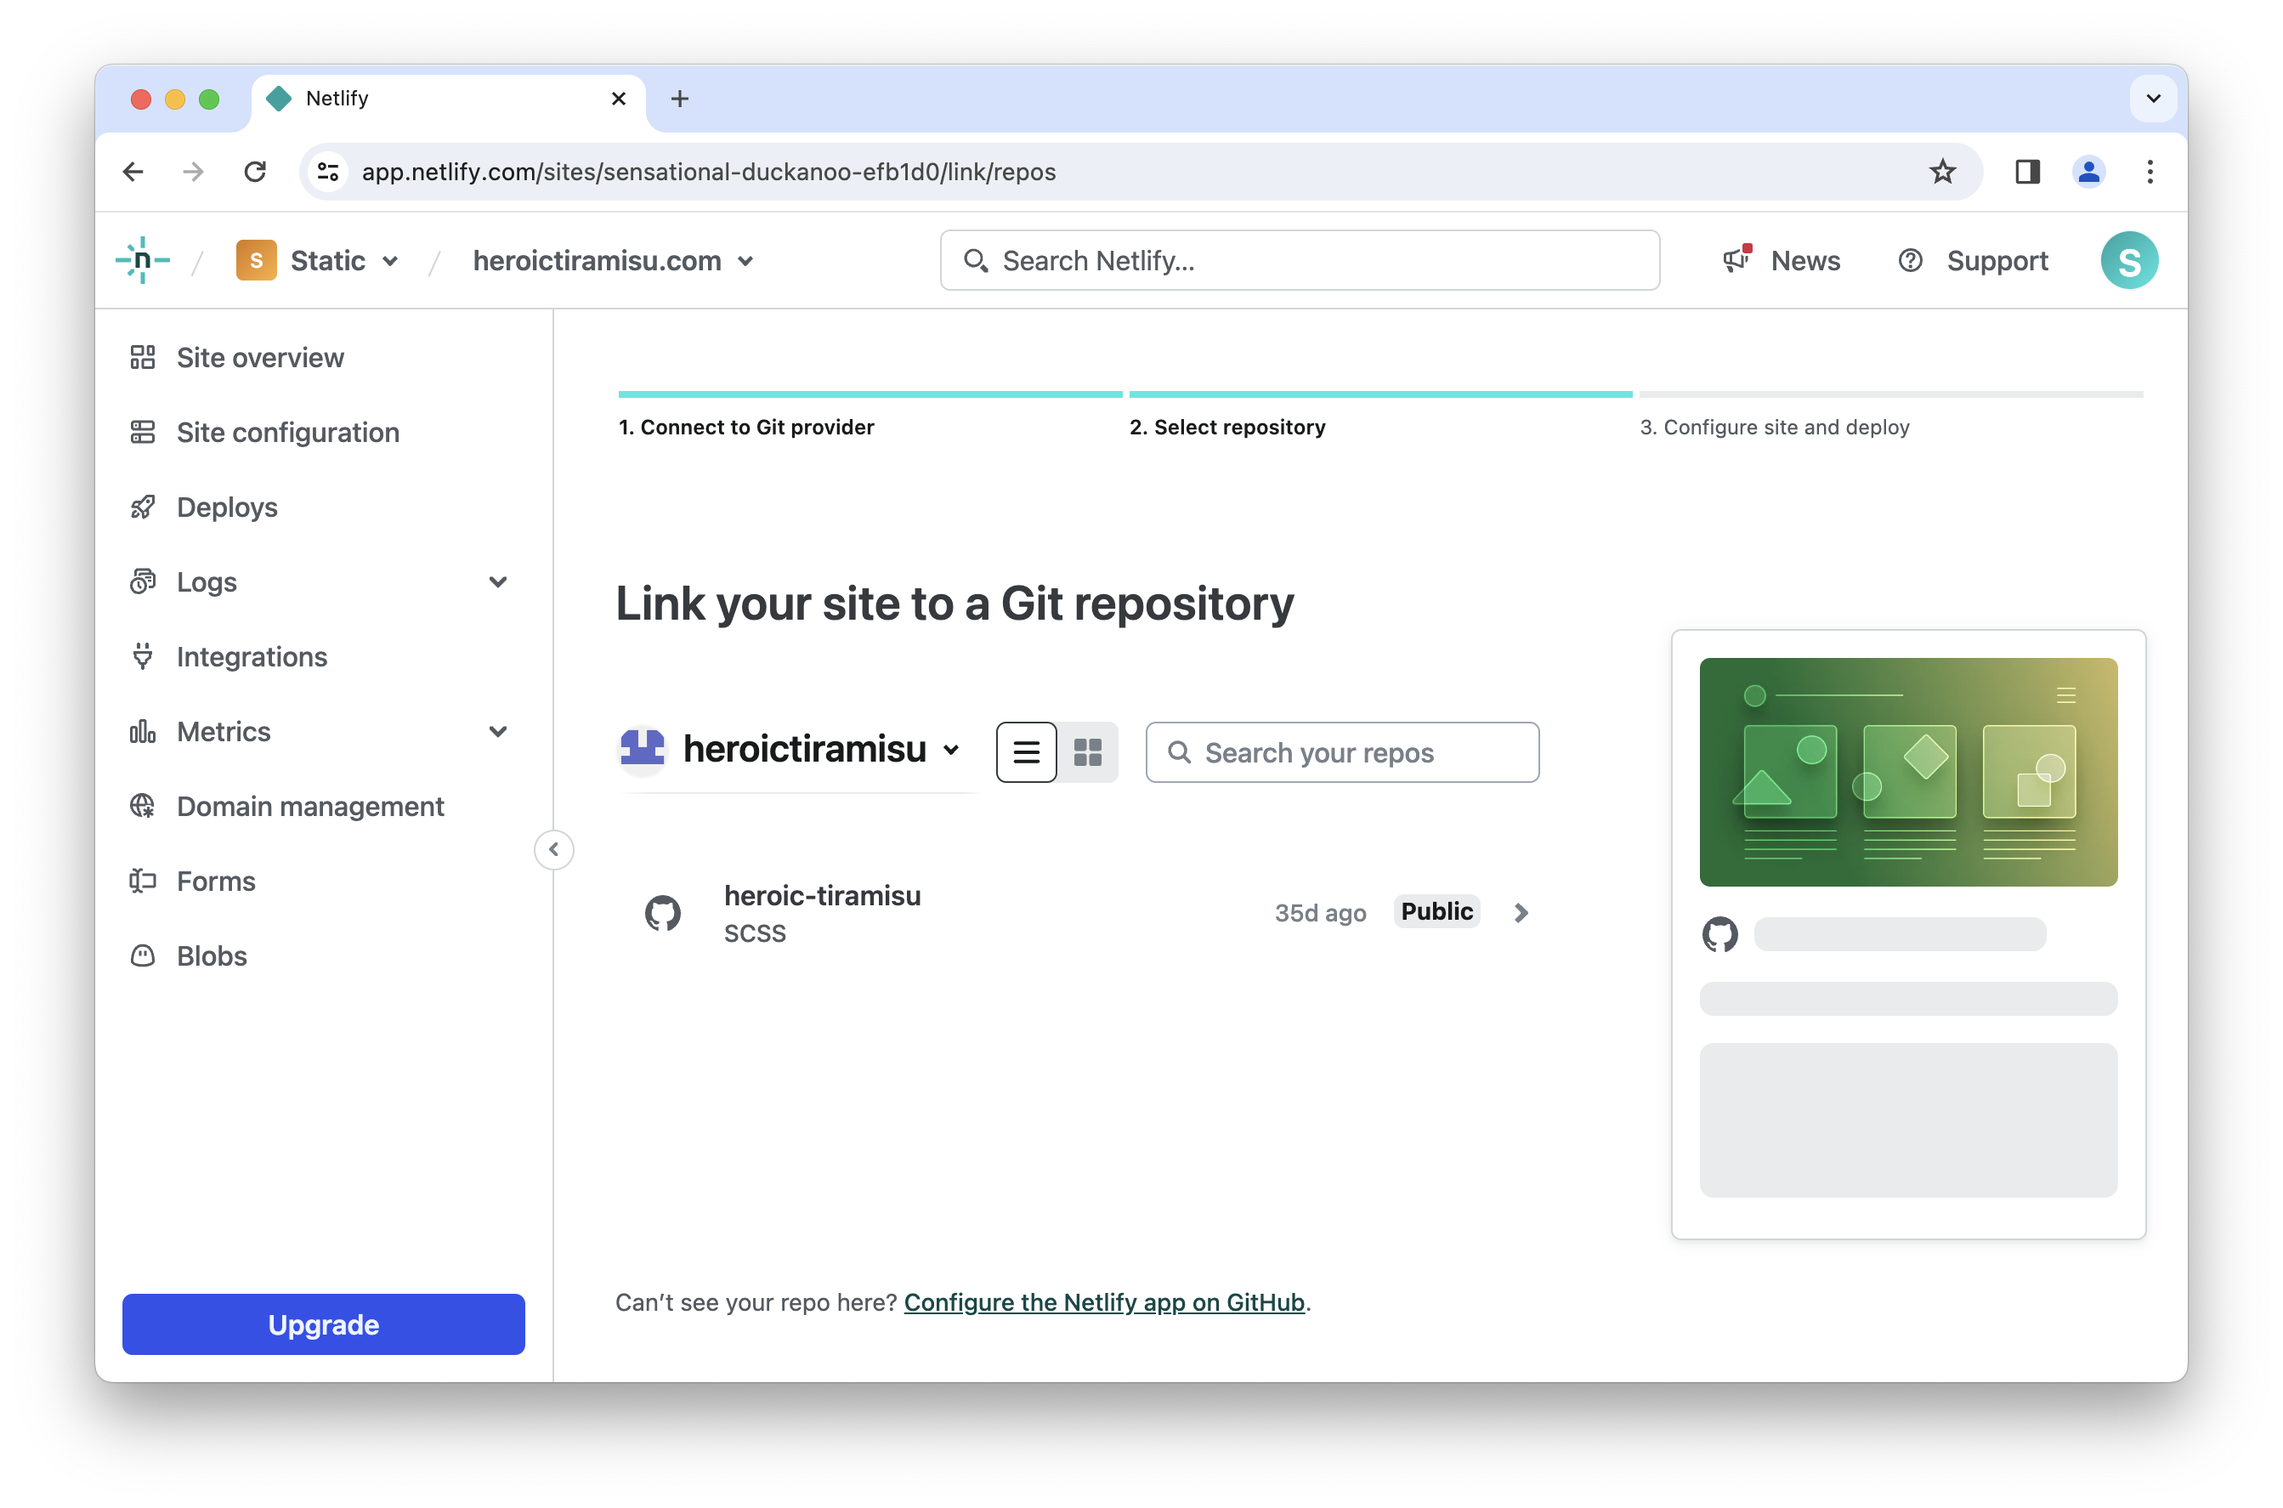
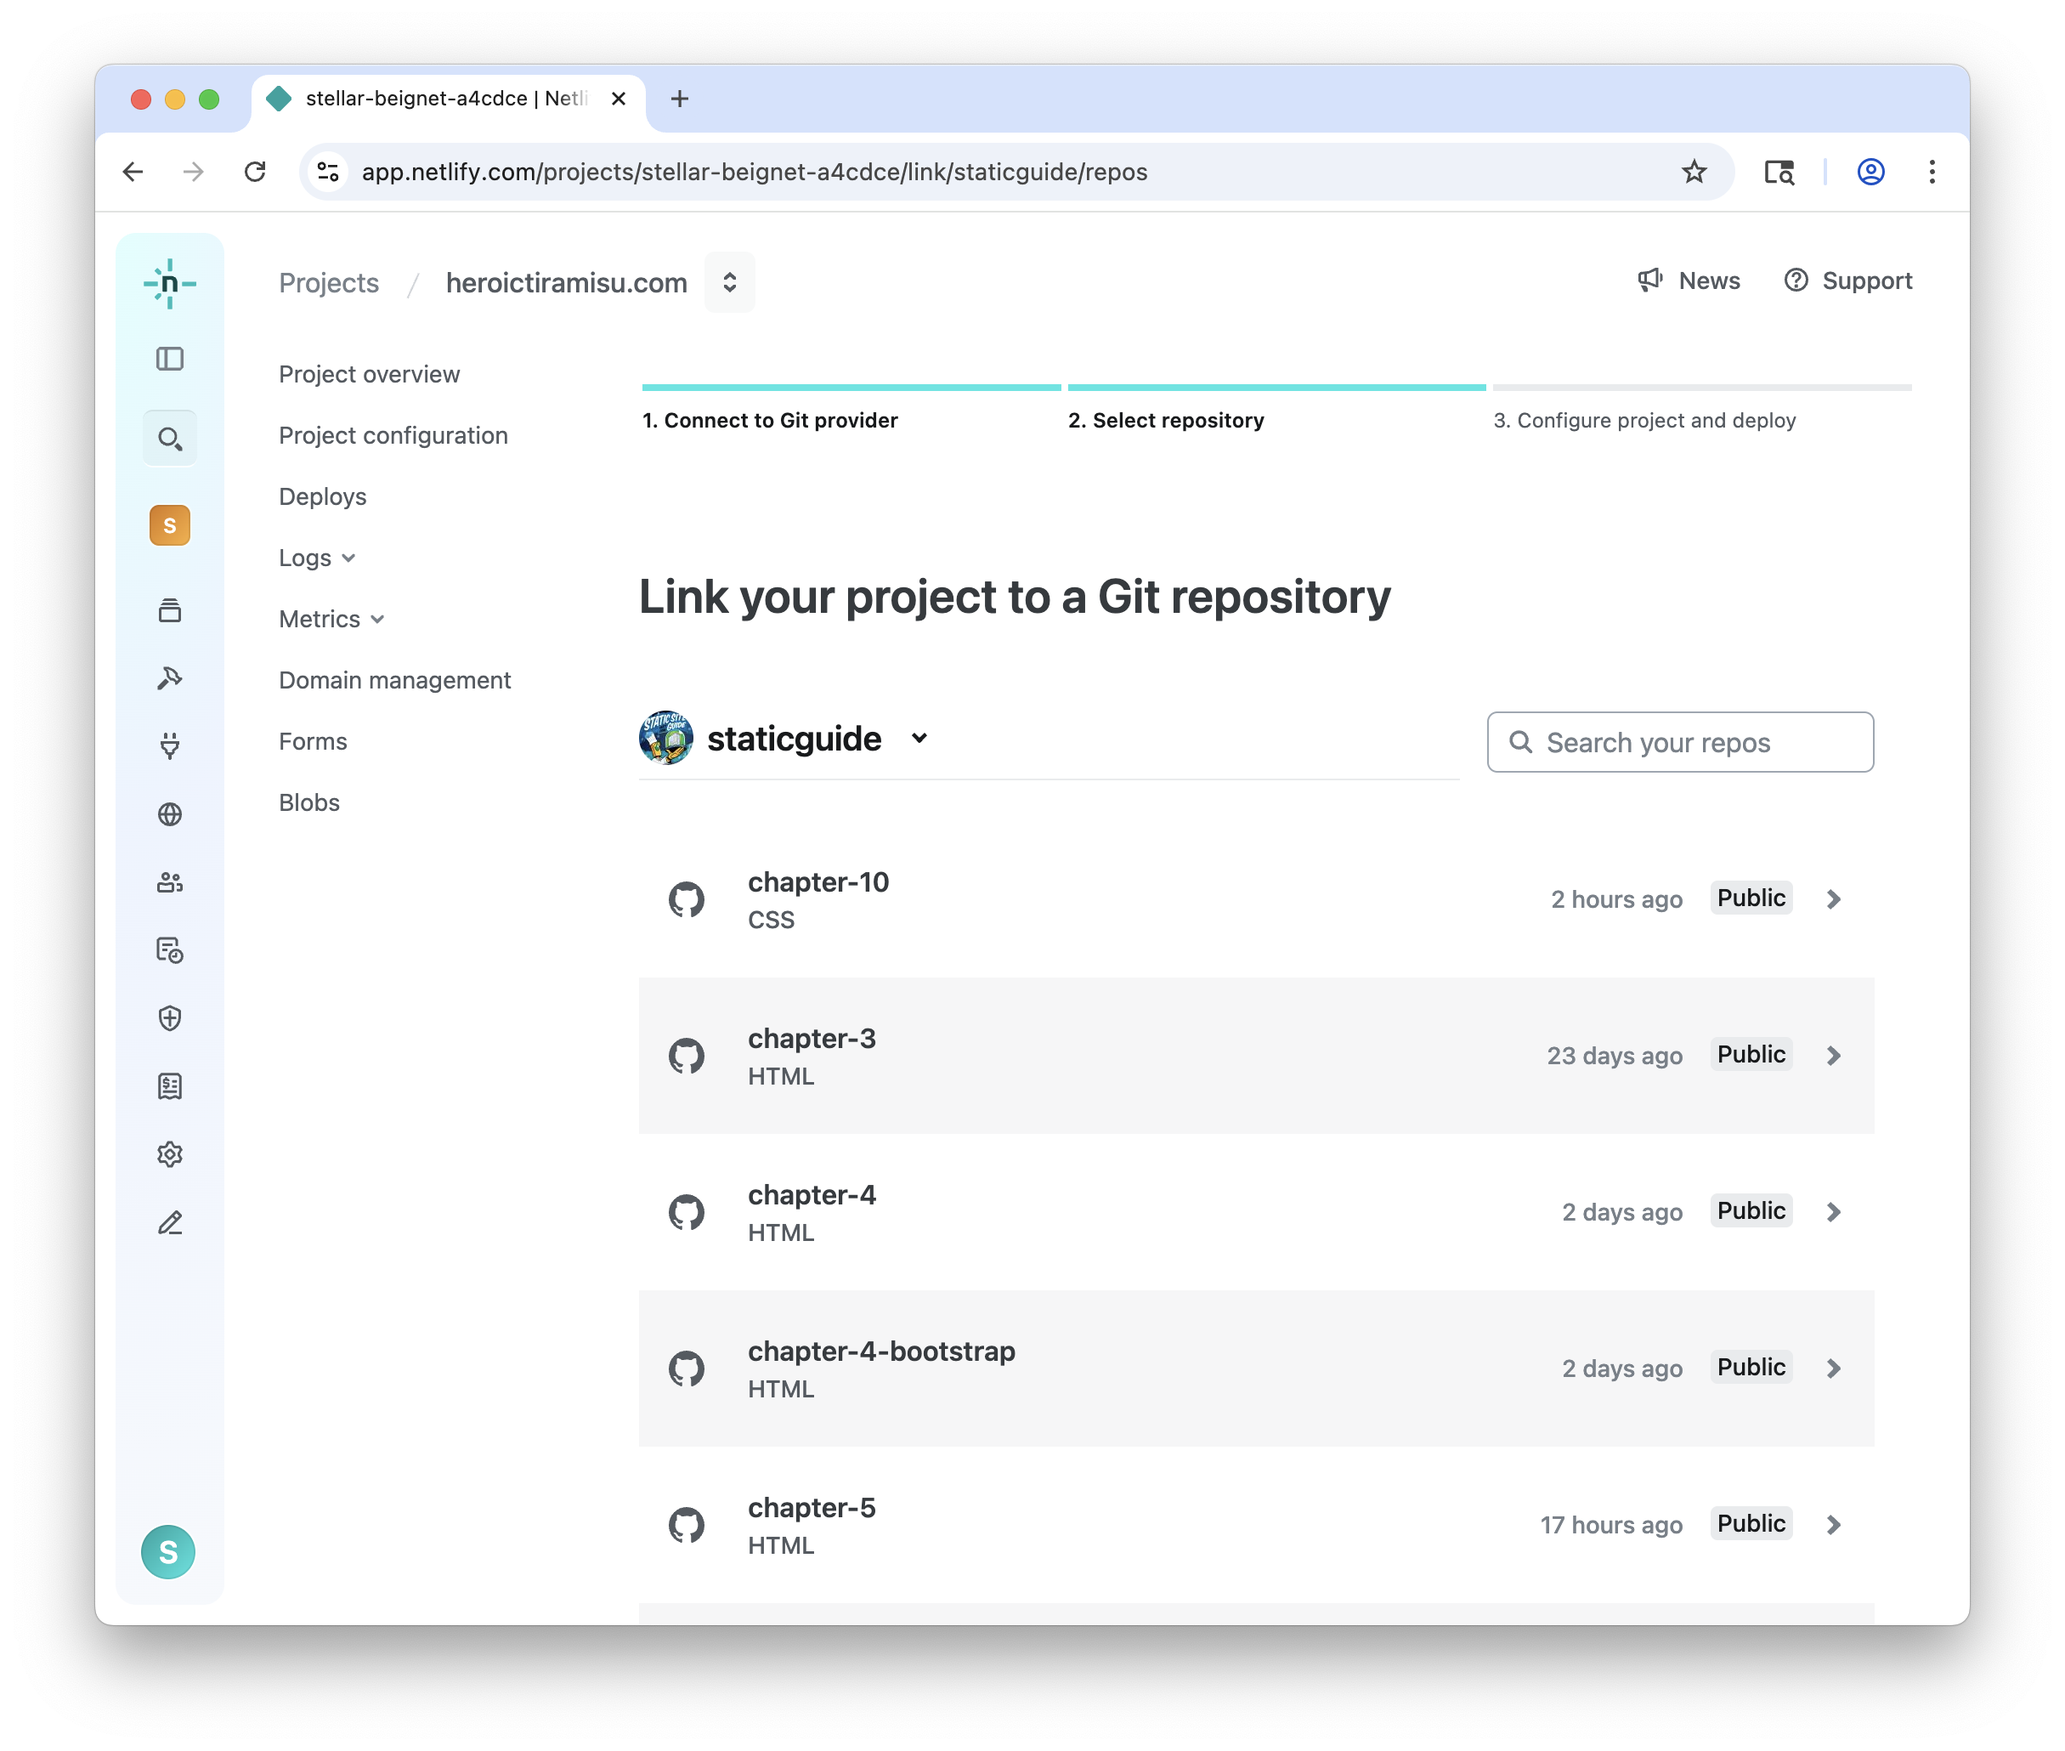
Update screenshots

diff --git a/content/chapter-10-setting-up-continuous-deployment.md b/content/chapter-10-setting-up-continuous-deployment.md
@@ -2,7 +2,7 @@
 title: "Setting up Continuous Deployment"
 chapter: "Chapter 10"
 description: "Chapter 10 of the Static Site Guide, a book that explains how to build a static website from scratch."
-date: 2025-06-07
+date: 2025-07-20
 previous: 
   name: "Chapter 9"
   link: "/chapter-9-implementing-version-control/"
@@ -25,9 +25,7 @@ The instructions in this chapter are written for Netlify, but you can apply the 
 
 ## Connecting Netlify to GitHub
 
-We'll enable the continuous deployment feature for our site in Netlify by linking our GitHub repository to our Netlify account. To do this, log in to Netlify, click **Sites**, and then select your website. From the sidebar, click **Site configuration**, and then click **Build & deploy**. 
-
-The continuous deployment settings are in the **Continuous deployment** section, as shown below. Click the **Link repository** button. 
+We'll enable the continuous deployment feature for our site in Netlify by linking our GitHub repository to our Netlify account. To do this, log in to Netlify and select your project. From the sidebar, click **Project configuration**, and then click **Continuous Deployment**. Click the **Link repository** button, as shown below. 
 
 ![Continuous deployment setting in Netlify](/images/figures/figure-68.png)
 
@@ -47,7 +45,7 @@ Back on the Netlify website, select your website's repository, as shown below.
 
 ![Selecting the GitHub repository in Netlify](/images/figures/figure-72.png)
 
-On the next page, you'll see settings related to how Netlify builds your website. You can leave these set to their default values. Netlify can automatically detect that you're building a Hugo website, and it will use the `hugo` command. After you've reviewed the settings, click the **Deploy** button. 
+On the next page, you'll see settings related to how Netlify builds your website. You can leave these set to their default values. Netlify will automatically detect that you're building a Hugo website, and it will use the `hugo` command. After you've reviewed the settings, click the **Deploy** button. 
 
 Netlify will check out your repository, build your website, and deploy it. We've set up continuous deployment! The next time we push a change to the `main` branch, Netlify will automatically deploy it to our website.
 
@@ -88,7 +86,7 @@ Using VS Code, copy and paste the following content into a new file called `netl
   command = "hugo --gc --minify"
 
 [context.production.environment]
-  HUGO_VERSION = "0.125.3"
+  HUGO_VERSION = "0.148.1"
 
 [[headers]]
   for = "/*"
@@ -106,7 +104,7 @@ Let's talk about what's going on here.
 
 First, we provide the command for building the website. The build command (`hugo --gc --minify`) is recommended in the [Hugo documentation](https://gohugo.io/hosting-and-deployment/hosting-on-netlify/) for Netlify. The `gc` flag removes unused cache files, and the `minify` flag minifies HTML content to reduce the size of our files so they can be delivered faster.
 
-Next, we specify the version of Hugo that Netlify will use to build the site (`HUGO_VERSION = "0.125.3"`). New Hugo releases can add features that unexpectedly change the look and feel of our website. We eliminate the potential for surprises on our production website by specifying a version of Hugo that we've tested.
+Next, we specify the version of Hugo that Netlify will use to build the site (`HUGO_VERSION = "0.148.1"`). New Hugo releases can add features that unexpectedly change the look and feel of our website. We eliminate the potential for surprises on our production website by specifying a version of Hugo that we've tested.
 
 ### HTTP Headers
 

diff --git a/content/chapter-5-creating-a-static-website-using-hugo.md b/content/chapter-5-creating-a-static-website-using-hugo.md
@@ -2,7 +2,7 @@
 title: "Creating a Static Website Using Hugo"
 chapter: "Chapter 5"
 description: "Chapter 5 of the Static Site Guide, a book that explains how to build a static website from scratch."
-date: 2025-07-19
+date: 2025-07-20
 previous: 
   name: "Chapter 4"
   link: "/chapter-4-styling-elements-with-css/"
@@ -20,10 +20,6 @@ But there are some potential problems with continuing to do things this way. The
 Content duplication is another problem. For example, if we wanted to update the top navigation bar of our website, we might need to update the code for *every* individual page, since each HTML document includes the code for the navigation elements. We can do better.
 
 The website we built in the previous section was a good example, but it's time to set it aside. In this section, we'll use a static site generator to create a personal blog using a pre-made theme.
-
-{{< aside type="tip" >}}
-You can find the source code for the website we're about to create in the [GitHub repository](https://github.com/heroictiramisu/heroic-tiramisu).
-{{< /aside >}}
 
 ## What's a Static Site Generator?
 
@@ -148,7 +144,7 @@ If everything worked, you should see something similar to this output:
 
 ```bash
 mcone@roadrunner ~ % hugo version
-hugo v0.147.9+extended+withdeploy darwin/arm64 BuildDate=2025-06-23T08:22:20Z VendorInfo=brew
+hugo v0.148.1+extended+withdeploy darwin/arm64 BuildDate=2025-07-11T12:56:21Z VendorInfo=brew
 ```
 
 You've successfully installed Hugo on your Mac and you're ready to create a new website.
@@ -173,7 +169,7 @@ If everything worked, you should see something similar to this output:
 
 ```powershell
 PS C:\Users\mcone> hugo version
-hugo v0.147.9-3d40aba512931031921463dafc172c0d124437b8+extended windows/amd64 BuildDate=2025-06-15T10:42:34Z VendorInfo=gohugoio
+hugo v0.148.1-3d40aba512931031921463dafc172c0d124437b8+extended windows/amd64 BuildDate=2025-07-11T10:42:34Z VendorInfo=gohugoio
 ``` 
 
 You've successfully installed Hugo on your PC and you're ready to create a new website.
@@ -332,7 +328,7 @@ mcone@roadrunner heroic-tiramisu % hugo serve
 Watching for changes in /Users/mcone/Documents/heroic-tiramisu/{archetypes,assets,content,data,i18n,layouts,static,themes}
 Watching for config changes in /Users/mcone/Documents/heroic-tiramisu/hugo.toml, /Users/mcone/heroic-tiramisu/themes/terminal/hugo.toml
 Start building sites …
-hugo v0.147.9+extended+withdeploy darwin/arm64 BuildDate=2025-06-23T08:22:20Z VendorInfo=brew
+hugo v0.148.1+extended+withdeploy darwin/arm64 BuildDate=2025-07-11T08:22:20Z VendorInfo=brew
 
 
                   │ EN

diff --git a/content/chapter-9-implementing-version-control.md b/content/chapter-9-implementing-version-control.md
@@ -2,7 +2,7 @@
 title: "Implementing Version Control"
 chapter: "Chapter 9"
 description: "Chapter 9 of the Static Site Guide, a book that explains how to build a static website from scratch."
-date: 2025-06-28
+date: 2025-07-20
 previous: 
   name: "Chapter 8"
   link: "/chapter-8-using-a-custom-domain-name/"
@@ -134,7 +134,7 @@ We'll need to enter some information about our remote repository. The most impor
 
 To avoid confusion, I recommend using the same name as your website directory. That’s what I’ll do here. When you're finished, click the **Publish Repository** button. GitHub Desktop will publish your repository on GitHub. 
 
-You can view the webpage for your repository by selecting **View on GitHub** from the **Repository** menu. The GitHub URL for your repository follows a standard format: `https://github.com/username/repository-name`. For example, the URL for the repository I created is <https://github.com/heroictiramisu/heroic-tiramisu>. These URLs are permanent, so if you made your repository public, you can share the URL with friends and they'll be able to view your repository on GitHub.
+You can view the webpage for your repository by selecting **View on GitHub** from the **Repository** menu. The GitHub URL for your repository follows a standard format: `https://github.com/username/repository-name`. For example, the URL for the repository I created is `https://github.com/heroictiramisu/heroic-tiramisu`. These URLs are permanent, so if you made your repository public, you can share the URL with friends and they'll be able to view your repository on GitHub.
 
 At this point, your repository's webpage on GitHub should look similar to mine, as shown below. 
 

diff --git a/content/chapter-6-customizing-your-hugo-website.md b/content/chapter-6-customizing-your-hugo-website.md
@@ -274,7 +274,7 @@ If everything works, you should see the following output:
 
 ```bash
 Start building sites …
-hugo v0.147.9+extended darwin/arm64 BuildDate=2025-07-04T16:15:48Z VendorInfo=brew
+hugo v0.148.1+extended darwin/arm64 BuildDate=2025-07-11T16:15:48Z VendorInfo=brew
 
                    | EN
 -------------------+-----
